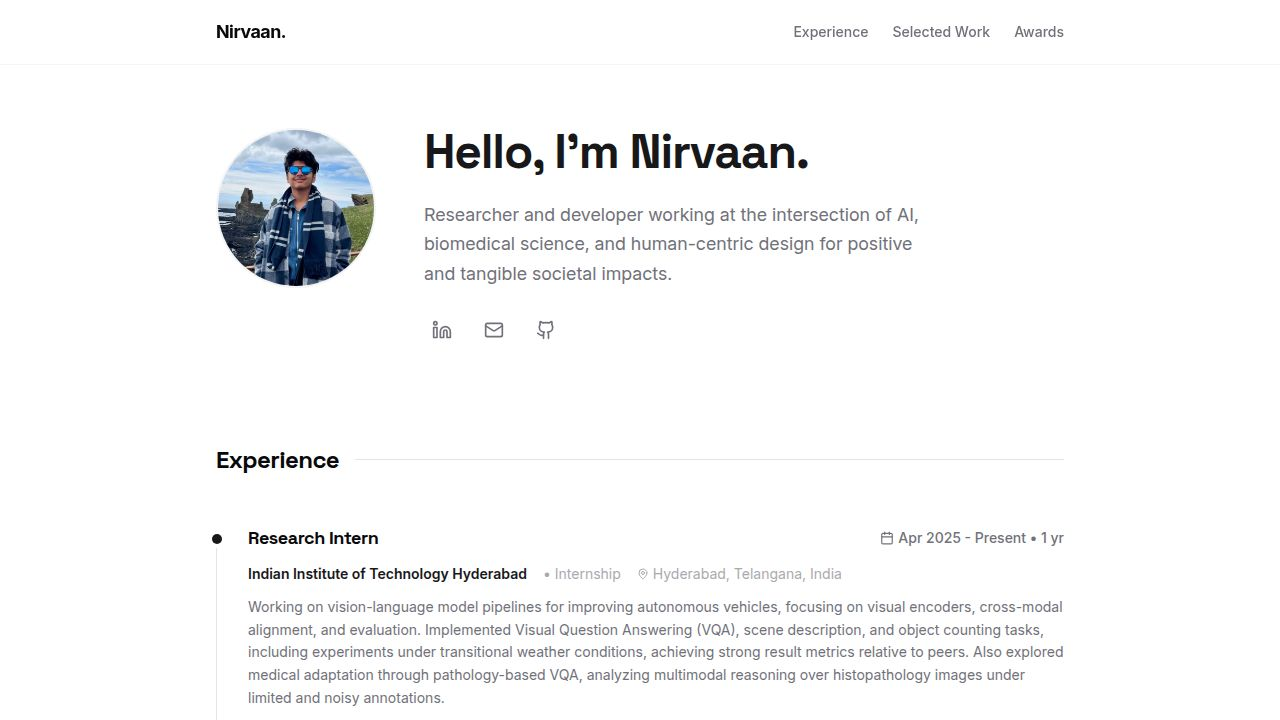
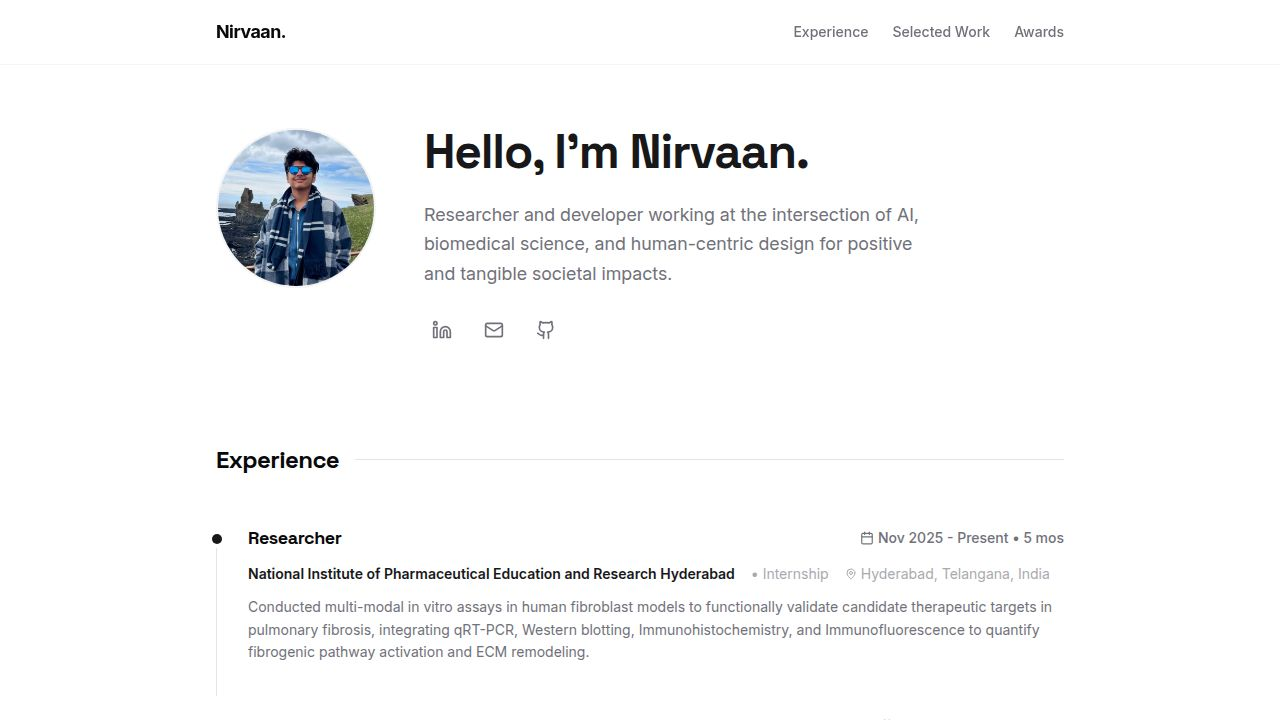
Update experience dates to a dynamic, calculated format
Refactors the experience section by separating start and end dates, and introduces a new function to dynamically calculate and display duration.

Replit-Commit-Author: Agent
Replit-Commit-Session-Id: cc40ee2f-3d07-4f4c-aa8c-7d398b34360b
Replit-Commit-Checkpoint-Type: full_checkpoint
Replit-Commit-Event-Id: 4835c4ba-499a-4763-8ae2-f5ac2930f320
Replit-Commit-Screenshot-Url: https://storage.googleapis.com/screenshot-production-us-central1/b9c30584-87ab-4eee-b5d3-a0c697f7f9cd/cc40ee2f-3d07-4f4c-aa8c-7d398b34360b/IhXvpwl
Replit-Helium-Checkpoint-Created: true

Changed region(s): [[0.1875, 0.7333, 0.8438, 0.9778], [0.6562, 0.7333, 0.8438, 0.7639]]

diff --git a/client/src/pages/home.tsx b/client/src/pages/home.tsx
@@ -35,7 +35,8 @@ const experiences = [
     role: "Researcher",
     company: "National Institute of Pharmaceutical Education and Research Hyderabad",
     type: "Internship",
-    date: "Nov 2025 - Present",
+    startDate: "Nov 2025",
+    endDate: "Present",
     location: "Hyderabad, Telangana, India",
     description: "Conducted multi-modal in vitro assays in human fibroblast models to functionally validate candidate therapeutic targets in pulmonary fibrosis, integrating qRT-PCR, Western blotting, Immunohistochemistry, and Immunofluorescence to quantify fibrogenic pathway activation and ECM remodeling.",
   },
@@ -43,7 +44,8 @@ const experiences = [
     role: "Research Intern",
     company: "Indian Institute of Technology Hyderabad",
     type: "Internship",
-    date: "Apr 2025 - Present",
+    startDate: "Apr 2025",
+    endDate: "Present",
     location: "Hyderabad, Telangana, India",
     description: "Working on vision-language model pipelines for improving autonomous vehicles, focusing on visual encoders, cross-modal alignment, and evaluation. Implemented Visual Question Answering (VQA), scene description, and object counting tasks, including experiments under transitional weather conditions, achieving strong result metrics relative to peers. Also explored medical adaptation through pathology-based VQA, analyzing multimodal reasoning over histopathology images under limited and noisy annotations.",
   },
@@ -51,7 +53,8 @@ const experiences = [
     role: "Research Intern",
     company: "Ashoka University",
     type: "Internship",
-    date: "Jul 2024 - Present",
+    startDate: "Jul 2024",
+    endDate: "Present",
     location: "Remote",
     description: "Explored the integration of deep learning architectures for the early detection of Pancreatic Neuroendocrine Tumors, a rare subtype of Pancreatic Cancer accounting for less than 2% of pancreatic cancer.",
   },
@@ -59,14 +62,16 @@ const experiences = [
     role: "AI Engineer Intern",
     company: "AI Planet",
     type: "Internship",
-    date: "May 2025 - Oct 2025",
+    startDate: "May 2025",
+    endDate: "Oct 2025",
     location: "Hyderabad, Telangana, India",
     description: "Worked on a fast-paced startup engineering team building AI agents and internal tools, contributing to production workflows for clients in healthcare and finance. Built and debugged 25+ Agentic AI use cases, alongside rigorously testing UI/UX components of products. Led migration of a multi-component AI agent use case interface under tight deadlines for a demo, and explored projects involving MNC clients.",
   },
   {
     role: "Innovator",
     company: "The Knowledge Society (TKS)",
-    date: "Sep 2024 - Jun 2025",
+    startDate: "Sep 2024",
+    endDate: "Jun 2025",
     location: "Global",
     description: "Selected with a 10% acceptance rate to join a global accelerator program for high school innovators. Studied applications of numerous emerging technologies, participated in ideation and build hackathons, and contributed to consulting projects with executives from IKEA and Maverick BioMetals. Led and contributed to projects on Quantum AI for drug discovery as well as less-invasive diagnostics for leukaemia.",
   },
@@ -74,7 +79,8 @@ const experiences = [
     role: "Participant at Stanford AI4ALL",
     company: "Stanford Institute for Human-Centered Artificial Intelligence (HAI)",
     type: "Internship",
-    date: "Jul 2024 - Jul 2024",
+    startDate: "Jul 2024",
+    endDate: "Jul 2024",
     location: "Remote",
     description: "Collaborated with Stanford graduate mentors & peers to explore advanced AI/ML/DL concepts, with a focus on medical AI. Developed a project using Vision Language Models for Biomedical Image Analysis, implementing BiomedCLIP for the Zero-Shot Classification of diseases from datasets such as PneumoniaMNIST.",
   },
@@ -166,6 +172,28 @@ const getCategoryStyles = (category: string) => {
     default:
       return "bg-muted text-muted-foreground";
   }
+};
+
+const formatExperienceDate = (startDate: string, endDate: string) => {
+  const start = new Date(startDate);
+  const end = endDate === "Present" ? new Date() : new Date(endDate);
+  
+  const y1 = start.getFullYear();
+  const m1 = start.getMonth();
+  const y2 = end.getFullYear();
+  const m2 = end.getMonth();
+  
+  let totalMonths = (y2 - y1) * 12 + (m2 - m1) + 1; // +1 to make inclusive
+  if (totalMonths <= 0) totalMonths = 1;
+  
+  const yrs = Math.floor(totalMonths / 12);
+  const mos = totalMonths % 12;
+  
+  let duration = [];
+  if (yrs > 0) duration.push(`${yrs} yr${yrs > 1 ? 's' : ''}`);
+  if (mos > 0) duration.push(`${mos} mo${mos > 1 ? 's' : ''}`);
+  
+  return `${startDate} - ${endDate} • ${duration.join(' ')}`;
 };
 
 export default function Home() {
@@ -281,7 +309,7 @@ export default function Home() {
                     </h3>
                     <span className="text-sm text-muted-foreground font-medium flex items-center gap-1">
                       <Calendar className="w-3.5 h-3.5" />
-                      {exp.date}
+                      {formatExperienceDate(exp.startDate, exp.endDate)}
                     </span>
                   </div>
                   <div className="flex flex-wrap items-center gap-x-4 gap-y-1 text-sm text-muted-foreground">
